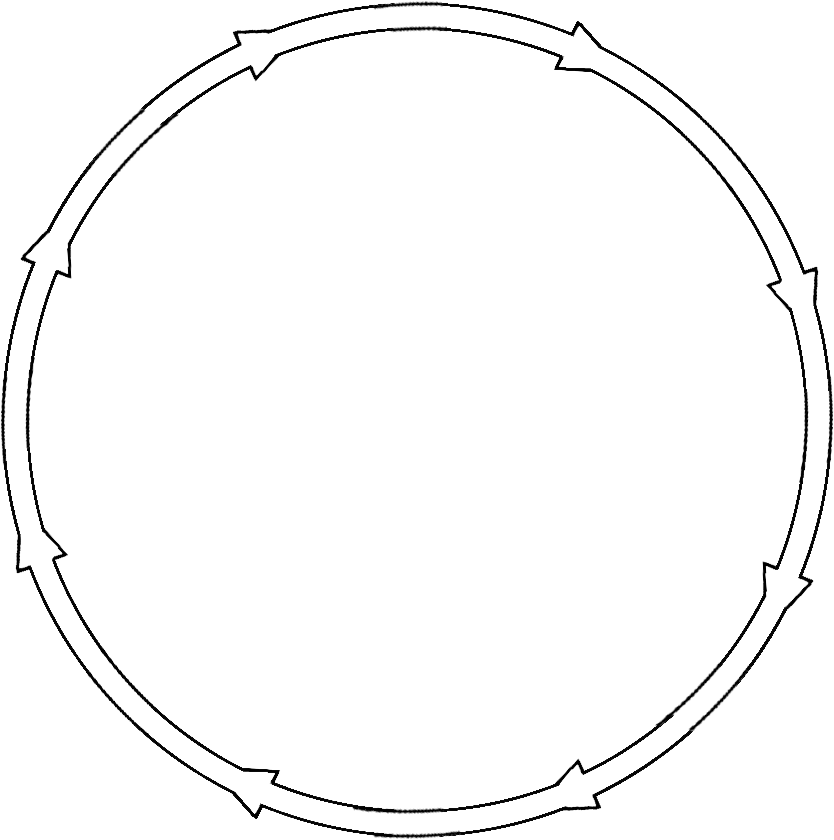
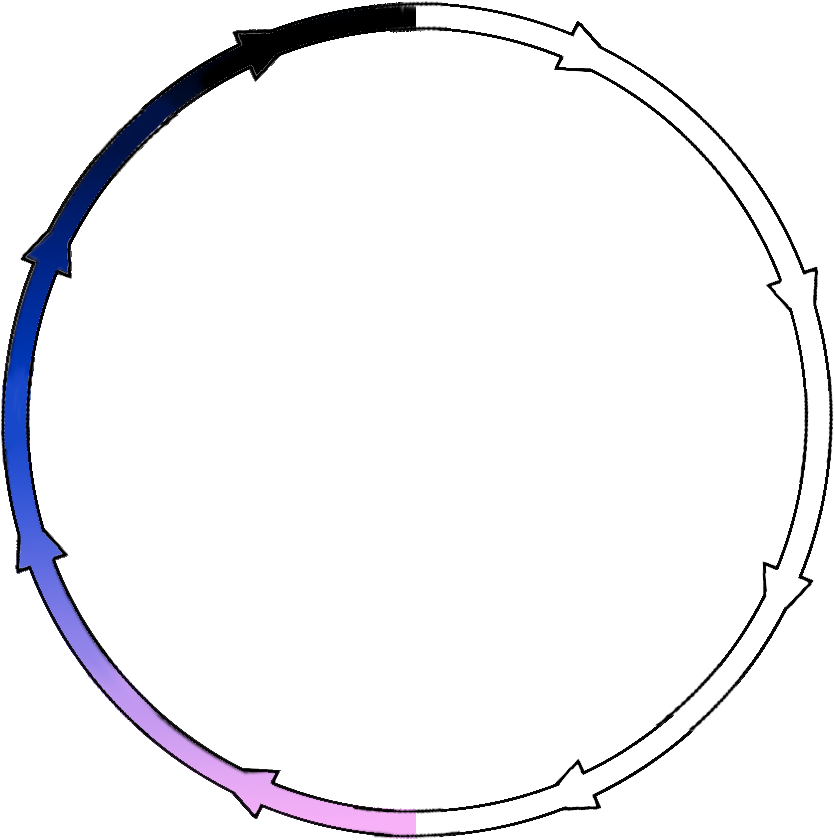
Initial work on the Soul Eclipse Chart

Changed region(s): [[0.0, 0.0, 0.53, 1.0]]

diff --git a/magi-knight-awakening/src/stores/sheetStore.js b/magi-knight-awakening/src/stores/sheetStore.js
@@ -163,10 +163,15 @@ export const useSheetStore = defineStore('sheet',() => {
   const spell_attack = computed(()=> proficiency.value + (abilityScores[mam]?.mod.value || 0));
   const spell_dc = computed(() => 8 + spell_attack.value);
   const eclipse = ref([]);
-  const eclipse_phase = computed(()=>{
-    return Math.max(0,...eclipse.value) >= 3 ?
-      'Heartless Knight' :
-      'Soul Eclipse Chart'});
+  const eclipse_outer_blips = ref([]);
+  const eclipse_phase = computed(() => {
+    const text = Math.max(0,...eclipse.value) >= 3 
+      ? 'Heartless Knight' 
+      : 'Soul Eclipse\nChart';
+    
+    return text.replace(/\n/g, '<br>');
+  });
+  
   
   const crystal = {
     facet1: ref(false),
@@ -203,7 +208,7 @@ export const useSheetStore = defineStore('sheet',() => {
   const student_ability = {
     name: ref(''),
     description: ref(''),
-    collapsed: ref(false)
+    collapsed: ref(true)
   };
   const fate = {
     card: ref(''),
@@ -221,14 +226,14 @@ export const useSheetStore = defineStore('sheet',() => {
   const armor_weave = {
     name: ref(''),
     description: ref(''),
-    collapsed: ref(false)
+    collapsed: ref(true)
   };
   const soul_weapon = {
     name: ref(''),
     range: ref(''),
     damage: ref(''),
     qualities: ref(''),
-    collapsed: ref(false)
+    collapsed: ref(true)
   }
   // repeating sections
   const sections = {
@@ -237,7 +242,7 @@ export const useSheetStore = defineStore('sheet',() => {
         name: '',
         description: '',
         type: '',
-        collapsed: false
+        collapsed: true
       },
       addItem(item){
         const newItem = {...this.template,...item};
@@ -251,7 +256,7 @@ export const useSheetStore = defineStore('sheet',() => {
         description: '',
         rarity:1,
         cost: '',
-        collapsed: false
+        collapsed: true
       },
       addItem(item){
         const newItem = {...this.template,...item};
@@ -263,7 +268,7 @@ export const useSheetStore = defineStore('sheet',() => {
       template: {
         name: '',
         description: '',
-        collapsed: false
+        collapsed: true
       },
       addItem(item){
         const newItem = {...this.template,...item};
@@ -275,7 +280,7 @@ export const useSheetStore = defineStore('sheet',() => {
       template: {
         name: '',
         description: '',
-        collapsed: false
+        collapsed: true
       },
       addItem(item){
         const newItem = {...this.template,...item};
@@ -287,7 +292,7 @@ export const useSheetStore = defineStore('sheet',() => {
       template: {
         name: '',
         description: '',
-        collapsed: false
+        collapsed: true
       },
       addItem(item){
         const newItem = {...this.template,...item};
@@ -299,7 +304,7 @@ export const useSheetStore = defineStore('sheet',() => {
       template: {
         name: '',
         description: '',
-        collapsed: false
+        collapsed: true
       },
       addItem(item){
         const newItem = {...this.template,...item};
@@ -768,6 +773,7 @@ export const useSheetStore = defineStore('sheet',() => {
     initiative,
     
     eclipse,
+    eclipse_outer_blips,
     eclipse_phase,
     studied,
     rested,

diff --git a/magi-knight-awakening/src/components/EclipseChart.vue b/magi-knight-awakening/src/components/EclipseChart.vue
@@ -6,8 +6,9 @@ const sheet = useSheetStore();
 <template>
 <div class="eclipse-container" :style="`--_phase:${sheet.eclipse_phase}`">
   <div class="eclipse-grid">
-    <span class='eclipse-label'>{{ sheet.eclipse_phase }}</span>
+    <span class="eclipse-label" v-html="sheet.eclipse_phase"></span>
     <input type="checkbox" :class="`moon moon-${num}`" v-for="num in [1,2,3,4,5,6,7,8]" v-model="sheet.eclipse" :true-value="num" :false-value="0" :key="`eclipse-${num}`">
+    <input type="checkbox" :class="`outer-blips outer-blips-${num}`" v-for="num in [1,2,3,4,5,6,7,8]" v-model="sheet.eclipse_outer_blips" :true-value="num" :false-value="0" :key="`eclipse-blip-${num}`">
   </div>
 </div>
 </template>
@@ -55,7 +56,33 @@ const sheet = useSheetStore();
   }
 }
 .moon{
-  width: var(--_size);
+  width: calc(var(--_size) * 1.2);
+  aspect-ratio: 1 / 1;
+  border-radius: 50%;
+  background: {
+    size: contain;
+    repeat: no-repeat;
+    position: center;
+    image: var(--_phaseRef);
+  };
+  transform: translate(
+    calc(cos(var(--_degrees)) * var(--_offset) * 0.85),
+    calc(sin(var(--_degrees)) * var(--_offset) * 0.85)
+  );
+
+  &:not(:checked){
+    filter:opacity(0.7);
+  }
+  $circleNum: 8;
+  @for $num from 0 to $circleNum{
+    &:nth-of-type(#{$num + 1}){
+      --_degrees: calc((#{$num} * 360deg / #{$circleNum}) - 45deg);
+      --_phaseRef: var(--moon#{$num + 1}Image);
+    }
+  }
+}
+.outer-blips{
+  width: calc(var(--_size));
   aspect-ratio: 1 / 1;
   border-radius: 50%;
   background: {
@@ -76,8 +103,11 @@ const sheet = useSheetStore();
   @for $num from 0 to $circleNum{
     &:nth-of-type(#{$num + 1}){
       --_degrees: calc((#{$num} * 360deg / #{$circleNum}) - 45deg);
-      --_phaseRef: var(--moon#{$num + 1}Image);
+      --_phaseRef: var(--outer-blips#{$num + 1}Image);
     }
   }
+}
+.eclipse-label{
+  text-align: center;
 }
 </style>

diff --git a/magi-knight-awakening/src/components/MasterHeader.vue b/magi-knight-awakening/src/components/MasterHeader.vue
@@ -51,14 +51,19 @@ const meta = useMetaStore();
   }
   .character-name{
     grid-area: charname;
+    width: 97%;
   }
   .level{
     grid-area: level;
   }
   .player{
     grid-area: player;
+    width: 97%;
   }
   .reputation{
     grid-area: reputation;
+  }
+  .underline{
+    width: 100%;
   }
 </style>

diff --git a/magi-knight-awakening/src/rollTemplates/styles/common.scss b/magi-knight-awakening/src/rollTemplates/styles/common.scss
@@ -48,7 +48,7 @@ rolltemplate.magiknight-template {
   --moon6Image:url('./moon6.png');
   --moon7Image:url('./moon7.png');
   --moon8Image:url('./moon8.png');
-  --eclipseBorder: url('./eclipse-border.png');
+  --eclipseBorder:url('./eclipse-border.png');
 
   display: block;
   max-width: 100%;
